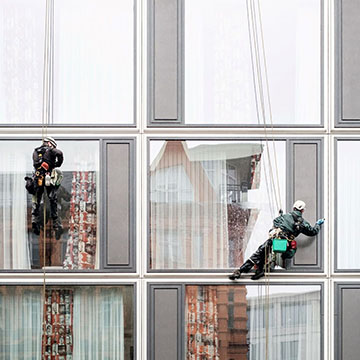
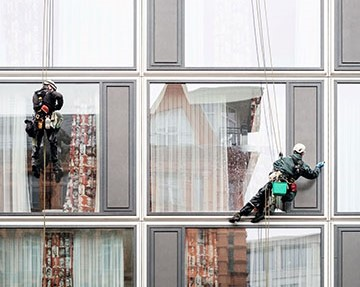
Adjusted photo ratio and size

diff --git a/portfolio.html b/portfolio.html
@@ -37,23 +37,23 @@
 
         <hr></hr>
 
-        <img id="hangman" src="assets/images/hangman.jpg" alt="Hangman" width="200">
+        <img id="hangman" src="assets/images/hangman.jpg" alt="Hangman" width="250">
 
         <h3 id="hangmantext">Hangman</h3>
 
-        <img id="rpg" src="assets/images/rpg-game.jpg" alt="RPG Game" width="200">
+        <img id="rpg" src="assets/images/rpg-game.jpg" alt="RPG Game" width="250">
 
         <h3 id="rpgtext">RPG Game</h3>
 
-        <img id="trivia" src="assets/images/trivia-game.jpg" alt="Trivia Game" width="200">
+        <img id="trivia" src="assets/images/trivia-game.jpg" alt="Trivia Game" width="250">
 
         <h3 id="triviatext">Trivia Game</h3>
 
-        <img id="widget" src="assets/images/rutgers-info-widget.jpg" alt="Rutgers Info Widget" width="200">
+        <img id="widget" src="assets/images/rutgers-info-widget.jpg" alt="Rutgers Info Widget" width="250">
 
         <h3 id="widgettext">Rutgers Info Widget</h3>
 
-        <img id="rps" src="assets/images/rock-paper-scissors.jpg" alt="Rock Paper Scissors" width="200">
+        <img id="rps" src="assets/images/rock-paper-scissors.jpg" alt="Rock Paper Scissors" width="250">
 
         <h3 id="rpstext">Rock Paper Scissors</h3>
         

diff --git a/assets/css/style.css b/assets/css/style.css
@@ -90,8 +90,7 @@ h3 {
     font-weight: 500;
     color: #ffffff;
     background: #4aaaa5;
-    width: 200px;
-    height: 50px;
+    width: 250px;
     text-align: center;
     padding: 15px;
 }
